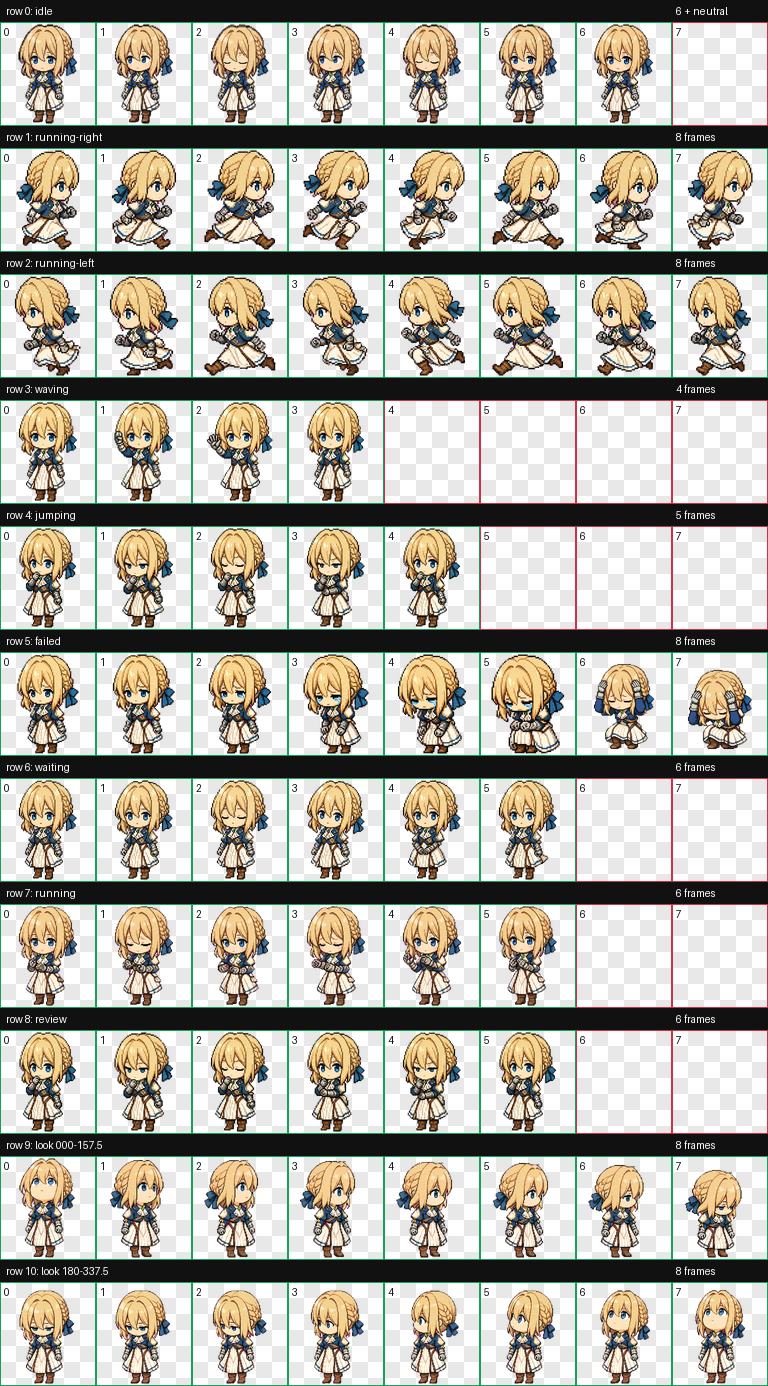
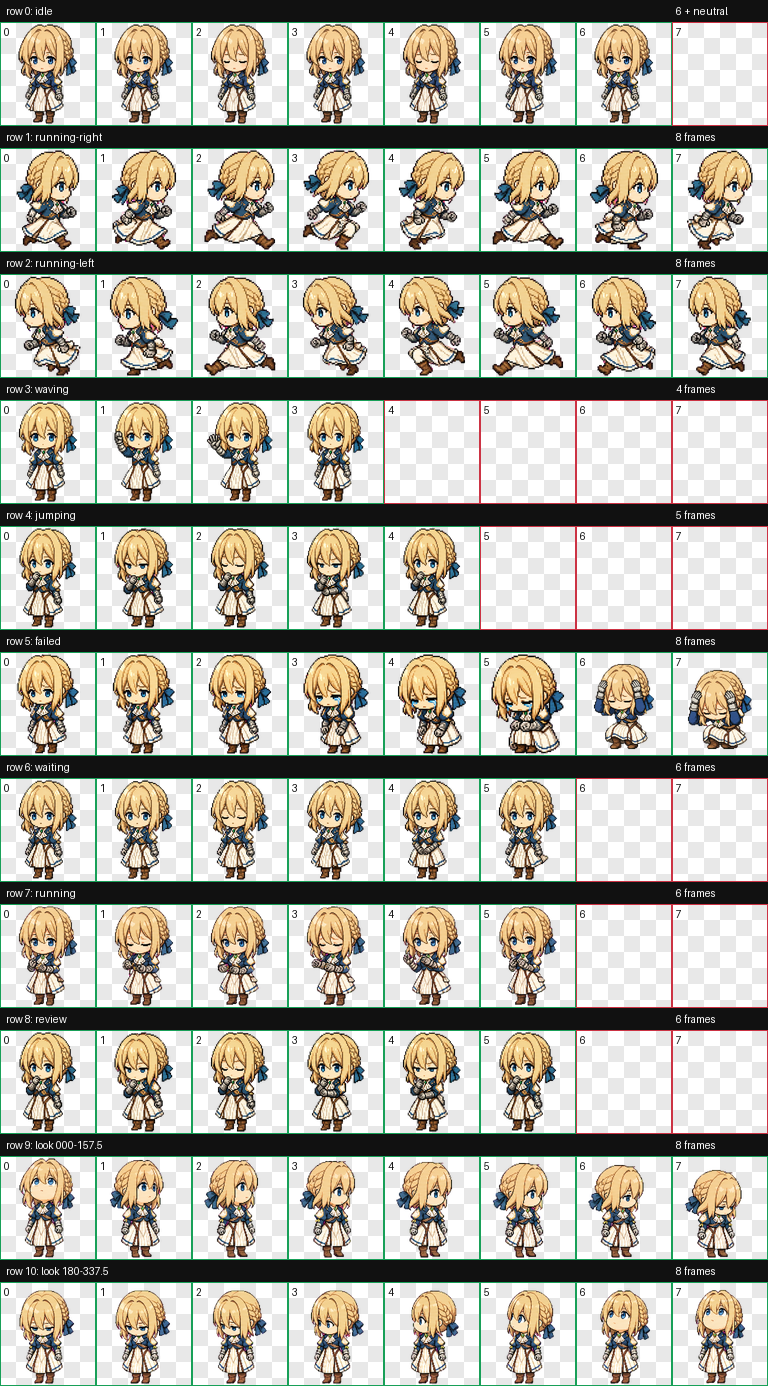
Fix idle hair outline ghosting

diff --git a/docs/QA.md b/docs/QA.md
@@ -15,13 +15,20 @@
 
 ## Change isolation
 
-Only idle cells `r0c0` through `r0c5` changed in the final atlas.
+Only idle cells `r0c0` through `r0c5` changed in the hair-outline repair.
 
 - Dedicated neutral cell `r0c6`: unchanged
 - Unused idle cell `r0c7`: unchanged
-- Rows 1 through 10: byte-for-byte RGBA pixel-equivalent to the previously installed optimized atlas
[2 lines of base64/hex data omitted]
+- Rows 1 through 10: byte-for-byte RGBA pixel-equivalent to the previously published optimized atlas
[2 lines of base64/hex data omitted]
+
+## Hair-outline repair
+
+- All six idle frames reuse the exact clean original hair silhouette and alpha channel.
+- Open-eye gaze is produced only inside the two original eye apertures with a two-pixel horizontal shift.
+- Every pixel outside the eye apertures is identical to its clean source frame.
+- Light- and dark-background edge checks show a single stable hair contour with no generated matte fringe.
 
 ## Visual artifacts
 
@@ -33,4 +40,4 @@ The idle loop is intentionally low-distraction: the feet remain planted, the sil
 
 ## Independent visual review
 
-PASS. The autonomous idle visibly but subtly glances left and right with two natural blinks; identity, proportions, and baseline remain stable. No body travel, jumping, props, or effects appear in the idle loop. Rows 1–10 match the intentionally accepted hover-review baseline, and all 16 look directions remain complete and coherent.
+PASS. On both light and dark backgrounds, all six idle frames show one crisp stable hair outline with no halo, doubled contour, blur, or afterimage. Left/right gaze, two blinks, identity, body registration, rows 1–10, and v2 validation all pass; all 16 look directions remain complete and coherent.

diff --git a/README.md b/README.md
@@ -6,7 +6,8 @@ Violet 是一个适用于 Codex Desktop 的 v2 动画宠物。该版本在原有
 
 ## 本版本特性
 
-- 六帧自主待机：正视、轻微左看、眨眼回正、轻微右看、眨眼、恢复正视。
+- 六帧自主待机：正视、眼睛轻微左看、眨眼回正、眼睛轻微右看、眨眼、恢复正视。
+- 待机帧重新采用原始干净头发轮廓，仅在眼睛内部移动注视像素，消除发丝描边的紫色重影和双边缘。
 - 鼠标悬停不再跳起，改为较安静的 review / 思考动作。
 - 修复失败动作末尾两帧的头部比例与抱头蹲下造型。
 - 保留 16 个方向的张望素材以及其余任务状态动画。